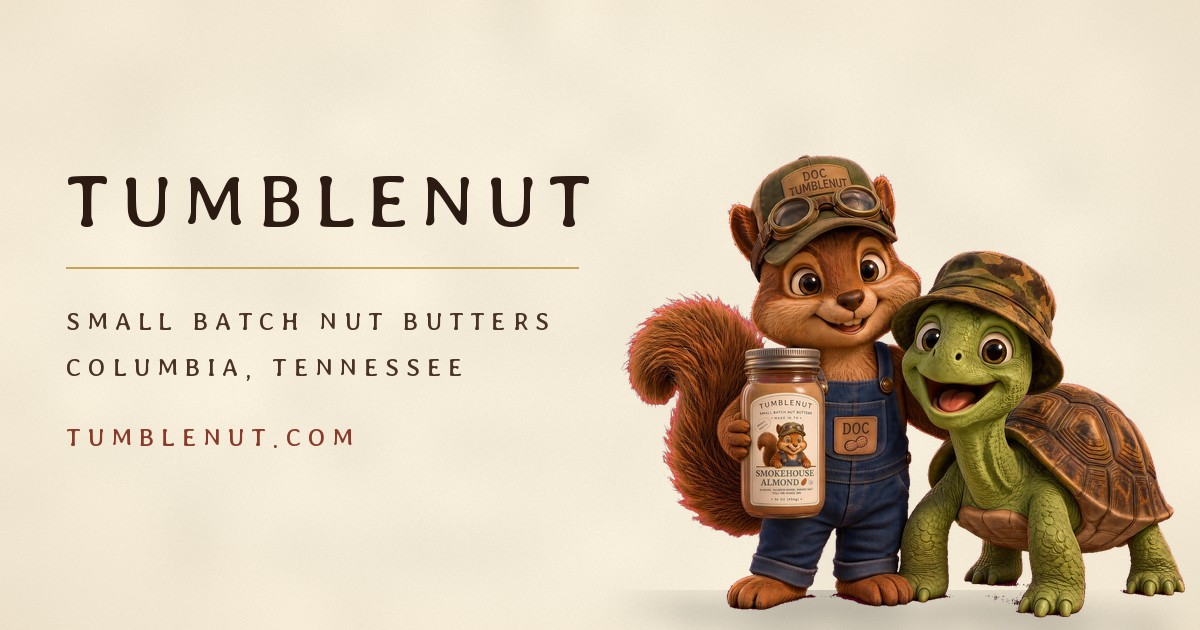
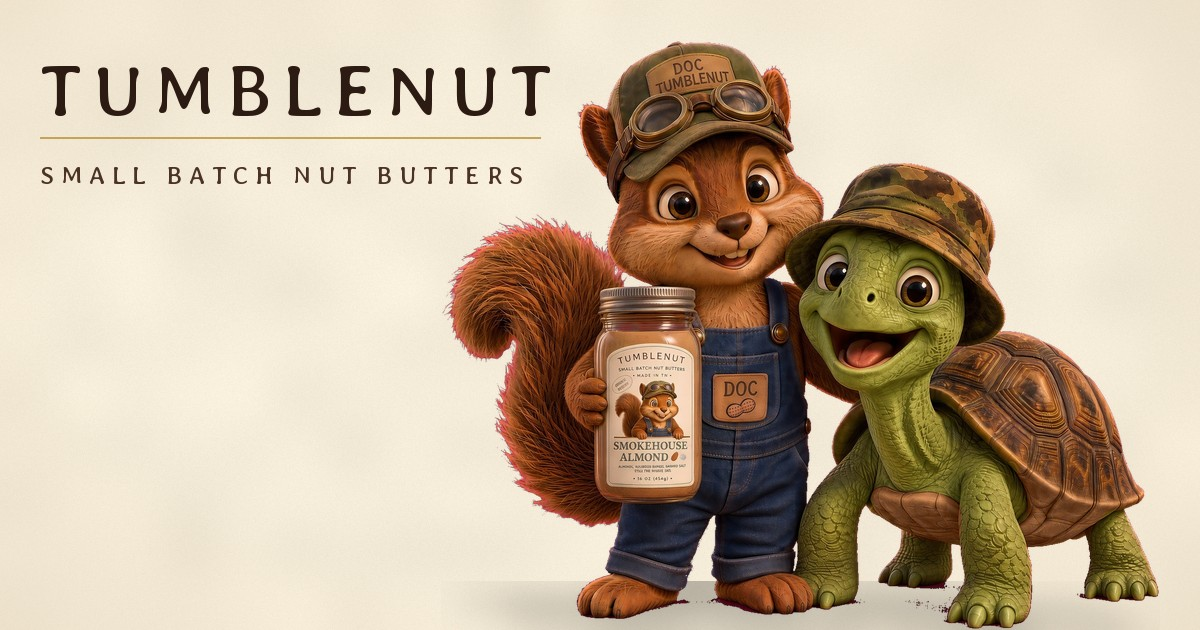
Cut the share card's copy back to what the preview does not already say
A link preview is three zones and we own one. Measured in Google Messages
on 2026-09-21: the bold line already renders "small batch nut butters
from Columbia, Tennessee" (it is og:title, i.e. the page <title>) and the
grey line already renders "tumblenut.com" -- the DOMAIN, drawn by the
client from the URL, not a tag we can set. og:description ships but that
client ignores it outright; Facebook, LinkedIn and Slack do show it.

So the card's location line and URL line were repeating the app verbatim,
and the tagline was repeating it too. Jeff's call: keep the wordmark and
the tagline, drop the location and the URL. The tagline stays because the
image also travels with no text at all -- a screenshot, a repost -- and is
then the only thing saying what is in the jar.

Worth recording, because it is the opposite of the obvious: cutting lines
is NOT what makes the pair bigger. The first version centred the type
block, which put it straight through Doc's tail, the widest obstacle on
the card. Top-anchoring is what buys the space, and it buys the same
amount whether the card carries one line or three -- measured, all
options land on the same art size. Content and scale are independent here.

Also fixes a margin bug worth knowing about. The source PNG carries
33/23/33/27px of transparent padding, so positioning the file rect put the
visible art at margins nobody chose -- the feet floated 14px above the
"grounded" bottom edge. The art is now cropped to its alpha box first, so
[…]

diff --git a/scripts/og-card/build-og-card.py b/scripts/og-card/build-og-card.py
@@ -9,24 +9,35 @@ The platform middleware (server/middleware/grok-pwa.ts) strips every og:/twitter
 meta the app emits and re-injects its own. og:image is pinned to the on-disk card
 at /og.jpg (scripts/grok-pwa-shared.mjs -> ogCardPublicPath), with site.json
 carrying card:"custom". So the share card IS this file. Editing og: tags in a
-route changes nothing on the deployed site. See src/lib/seo.ts for the full map
-of which tag is owned by what.
+route changes nothing on the deployed site. src/lib/seo.ts has the full map of
+which tag is owned by what.
 
-INPUTS
-  Art   public/brand/cast/lockup-3d.png -- the canonical Doc+Cecil pose. Verified
-        pixel-identical to Doc_Cecil_Canonical_Pack/3D/Doc_Cecil_Canonical_3D_Cutout.png
-        resampled to 1400w, so this repo-local copy is the canonical master.
-        The pose is locked; this script only ever scales it.
-  Type  Stylish-Subset.ttf -- Stylish (Google Fonts) subset to the glyphs below.
-        Stylish is the face SiteHeader locks the wordmark and tagline to.
-  Paper --color-paper / --color-paper-deep, from src/styles.css.
+WHAT THE CARD SAYS, AND WHY IT SAYS SO LITTLE
+A link preview is three zones, and we only own the first:
 
-LAYOUT IS SOLVED, NOT EYEBALLED
-Doc's tail is the widest thing on the art's left side -- it reaches 0.026 of the
-bounding box at mid-height, against 0.204 up in the head rows. Sizing the cast by
-eye runs the tagline straight into it. So the cast is scaled to the largest size
-at which its left-most opaque pixel still clears the type column, and the type
-keeps its locked sizes rather than shrinking to fit.
+    picture      this file                        identical in every app
+    bold line    og:title, i.e. the page <title>  also the Google result headline
+    grey line    the DOMAIN, drawn by the client  not a tag; we cannot change it
+
+Measured in Google Messages on 2026-09-21: the bold line already renders "small
+batch nut butters from Columbia, Tennessee" and the grey line already renders
+"tumblenut.com". og:description ships but that client ignores it entirely
+(Facebook, LinkedIn and Slack do show it). So a card carrying the location or
+the URL is repeating the app verbatim. Jeff's call the same day: keep the
+wordmark and the tagline, drop the location and the URL. The tagline stays
+because the image also travels with no text at all -- a screenshot, a repost --
+and then it is the only thing saying what is in the jar.
+
+LAYOUT
+One padding value frames everything. The art is cropped to its ALPHA BOX first:
+the source PNG carries 33/23/33/27px of transparent margin, so positioning the
+file rect would put the visible art at margins nobody chose. Cropped, PAD is
+real -- the top of Doc's hat sits PAD from the top, Cecil's shell PAD from the
+right, the type column PAD from the left, and the pair is grounded on the
+bottom edge. The wordmark then drops MARK_DROP below the hat crown.
+
+Type never collides with the art: each line is measured against the art's own
+alpha in that line's rows, and only shrinks if the art genuinely crowds it.
 """
 from pathlib import Path
 
@@ -41,35 +52,39 @@ OUT = REPO / "public" / "og.jpg"
 
 W, H = 1200, 630                       # the size seo.ts advertises in og:image:width/height
 PAPER, PAPER_DEEP = (244, 235, 216), (231, 215, 188)
-INK, WALNUT, HONEY, BARN = (44, 27, 18), (74, 50, 36), (196, 163, 90), (139, 58, 42)
+INK, WALNUT, HONEY = (44, 27, 18), (74, 50, 36), (196, 163, 90)
 
-MARGIN_L, GUTTER = 66, 30              # left type margin; clear paper between type and cast
-BLEED = 0                              # px of the pair allowed off the right edge. Jeff's
-                                       # call 2026-09-21: keep the pair whole, crop nothing.
+PAD = 40                               # the one frame value: art top + right, type left
+GUTTER = 34                            # clear paper between the type column and the art
+MARK_DROP = 26                         # wordmark ink starts this far under the hat crown
 
-MARK = "TUMBLENUT"
-LINES = [("SMALL BATCH NUT BUTTERS", WALNUT),
-         ("COLUMBIA, TENNESSEE", WALNUT),
-         ("TUMBLENUT.COM", BARN)]
-MARK_SIZE, MARK_TRACK = 84, 0.14       # tracking in em, echoing SiteHeader's 0.22/0.32
+MARK, TAGLINE = "TUMBLENUT", "SMALL BATCH NUT BUTTERS"
+MARK_SIZE, MARK_TRACK = 84, 0.14       # tracking in em, echoing SiteHeader's 0.22 / 0.32
 BODY_SIZE, BODY_TRACK = 28, 0.25
+
+# Cropped to the alpha box, so the rect we position is the visible art. Verified
+# pixel-identical to Doc_Cecil_Canonical_Pack/3D/Doc_Cecil_Canonical_3D_Cutout.png
+# resampled to 1400w. The pose is locked; this script only ever scales it.
+_RAW = Image.open(CAST).convert("RGBA")
+ART = _RAW.crop(_RAW.getchannel("A").getbbox())
 
 
 def assert_glyphs_present():
-    """The font is a SUBSET. A character missing from it renders as a blank box
-    or, worse, as nothing at all -- the first build of this card silently
-    dropped the "I" and shipped "COLUMB A, TENNESSEE". Fail loudly instead.
+    """The font is a SUBSET. A character missing from it renders as nothing at
+    all -- the first build of this card silently dropped the "I" and shipped
+    "COLUMB A, TENNESSEE". Fail loudly instead. The subset deliberately still
+    carries the glyphs for copy since removed, so lines can be added back.
     Re-subset with: python3 -m fontTools.subset Stylish-Regular.ttf --text="..."
     """
     from fontTools.ttLib import TTFont
 
     cmap = TTFont(str(FONT)).getBestCmap()
-    needed = set(MARK) | {c for text, _ in LINES for c in text}
+    needed = set(MARK) | set(TAGLINE)
     missing = sorted(c for c in needed if ord(c) not in cmap)
     if missing:
         raise SystemExit(
             f"{FONT.name} has no glyph for {missing!r}. Re-subset it with every "
-            f"character in MARK and LINES: {''.join(sorted(needed))!r}"
+            f"character in MARK and TAGLINE: {''.join(sorted(needed))!r}"
         )
 
 
@@ -101,68 +116,66 @@ def draw_spaced(draw, xy, text, font, fill, track):
         x += font.getlength(char) + track
 
 
-def type_column_width():
-    """Widest line in the type lockup at its locked sizes."""
-    mark = ImageFont.truetype(str(FONT), MARK_SIZE)
-    body = ImageFont.truetype(str(FONT), BODY_SIZE)
-    return max(spaced_width(mark, MARK, MARK_SIZE * MARK_TRACK),
-               *(spaced_width(body, t, BODY_SIZE * BODY_TRACK) for t, _ in LINES))
-
-
-def solve_cast():
-    """Largest cast whose left-most pixel -- the tail tip -- still clears the type."""
-    src = Image.open(CAST).convert("RGBA")
-    alpha = np.asarray(src.getchannel("A"))
-    tail = np.where((alpha > 16).any(axis=0))[0].min() / src.width
-
-    clear_x = MARGIN_L + type_column_width() + GUTTER
-    # x = clear_x - tail*w and x + w <= W + BLEED  =>  w <= (W + BLEED - clear_x)/(1 - tail)
-    w = int((W + BLEED - clear_x) / (1 - tail))
-    h = round(src.height * w / src.width)
-    return src.resize((w, h), Image.LANCZOS), round(clear_x - tail * w), w, h
-
-
 def build():
-    img = paper(W, H).convert("RGBA")
-    art, x, w, h = solve_cast()
+    # Art: ink top at PAD, ink right at W-PAD, grounded on the bottom edge.
+    art_h = H - PAD
+    art_w = round(ART.width * art_h / ART.height)
+    art_x, art_y = W - PAD - art_w, PAD
+    art = ART.resize((art_w, art_h), Image.LANCZOS)
 
-    # Contact shadow from the art's own alpha, so the pair sits on the paper
-    # rather than floating on it.
-    shadow_h = max(14, h // 12)
-    shadow = Image.new("RGBA", (w, shadow_h), (0, 0, 0, 0))
-    shadow.putalpha(art.getchannel("A").resize((w, shadow_h), Image.LANCZOS)
+    img = paper(W, H).convert("RGBA")
+    shadow_h = max(14, art_h // 12)
+    shadow = Image.new("RGBA", (art_w, shadow_h), (0, 0, 0, 0))
+    shadow.putalpha(art.getchannel("A").resize((art_w, shadow_h), Image.LANCZOS)
                     .point(lambda p: int(p * .26)))
     img.alpha_composite(shadow.filter(ImageFilter.GaussianBlur(shadow_h / 3.2)),
-                        (x, H - shadow_h))
-    img.alpha_composite(art, (x, H - h))          # grounded on the bottom edge
+                        (art_x, H - shadow_h))
+    img.alpha_composite(art, (art_x, art_y))
+
+    alpha = np.asarray(art.getchannel("A"))
+
+    def free(y0, y1):
+        """Type width available between the left margin and the art, in rows y0..y1."""
+        band = alpha[max(0, y0 - art_y):max(0, y1 - art_y)]
+        cols = np.where((band > 16).any(axis=0))[0]
+        return (art_x + int(cols.min()) if cols.size else W) - GUTTER - PAD
+
+    mark_size, body_size = MARK_SIZE, BODY_SIZE
+    mark_top = PAD + MARK_DROP
+
+    def metrics():
+        fm = ImageFont.truetype(str(FONT), mark_size)
+        fb = ImageFont.truetype(str(FONT), body_size)
+        rule = mark_top + round(mark_size * 0.86)
+        return fm, fb, rule, rule + 30
+
+    fm, fb, rule_y, tag_top = metrics()
+    while (spaced_width(fm, MARK, mark_size * MARK_TRACK) - mark_size * MARK_TRACK
+           > free(mark_top, mark_top + mark_size)) and mark_size > 40:
+        mark_size -= 1
+        fm, fb, rule_y, tag_top = metrics()
+    while (spaced_width(fb, TAGLINE, body_size * BODY_TRACK) - body_size * BODY_TRACK
+           > free(tag_top, tag_top + body_size)) and body_size > 14:
+        body_size -= 1
+        fm, fb, rule_y, tag_top = metrics()
 
     draw = ImageDraw.Draw(img, "RGBA")
-    mark_font = ImageFont.truetype(str(FONT), MARK_SIZE)
-    mark_track = MARK_SIZE * MARK_TRACK
+    mark_track, body_track = mark_size * MARK_TRACK, body_size * BODY_TRACK
 
-    block_h = round(MARK_SIZE * 1.30) + 40 + 2 * 46 + 58
-    top = round((H - block_h) / 2) - 8            # centred, with a touch of optical lift
-
-    draw_spaced(draw, (MARGIN_L, top), MARK, mark_font, INK + (255,), mark_track)
-    rule_y = top + round(MARK_SIZE * 1.30)
-    draw.line([(MARGIN_L, rule_y),
-               (MARGIN_L + spaced_width(mark_font, MARK, mark_track) - mark_track, rule_y)],
+    # Align by glyph INK, not by the draw origin, so MARK_DROP means what it says.
+    draw_spaced(draw, (PAD, mark_top - fm.getbbox(MARK)[1]), MARK, fm, INK + (255,), mark_track)
+    draw.line([(PAD, rule_y),
+               (PAD + spaced_width(fm, MARK, mark_track) - mark_track, rule_y)],
               fill=HONEY + (185,), width=2)
+    draw_spaced(draw, (PAD, tag_top - fb.getbbox(TAGLINE)[1]), TAGLINE, fb,
+                WALNUT + (255,), body_track)
 
-    body_font = ImageFont.truetype(str(FONT), BODY_SIZE)
-    body_track = BODY_SIZE * BODY_TRACK
-    y = rule_y + 40
-    for i, (text, color) in enumerate(LINES):
-        draw_spaced(draw, (MARGIN_L, y + (12 if i == 2 else 0)),
-                    text, body_font, color + (255,), body_track)
-        y += 46 if i == 0 else 58
-
-    return img.convert("RGB"), (w, h, x)
+    return img.convert("RGB"), (art_w, art_h, mark_size, body_size)
 
 
 if __name__ == "__main__":
     assert_glyphs_present()
-    card, (w, h, x) = build()
+    card, (w, h, mark, body) = build()
     card.save(OUT, "JPEG", quality=90, optimize=True, progressive=True)
-    print(f"cast {w}x{h} at x={x} ({max(0, x + w - W)}px off-canvas)")
+    print(f"art ink {w}x{h} at pad {PAD}; wordmark {mark}px, tagline {body}px")
     print(f"wrote {OUT.relative_to(REPO)}  {OUT.stat().st_size // 1024} KB  {W}x{H}")
